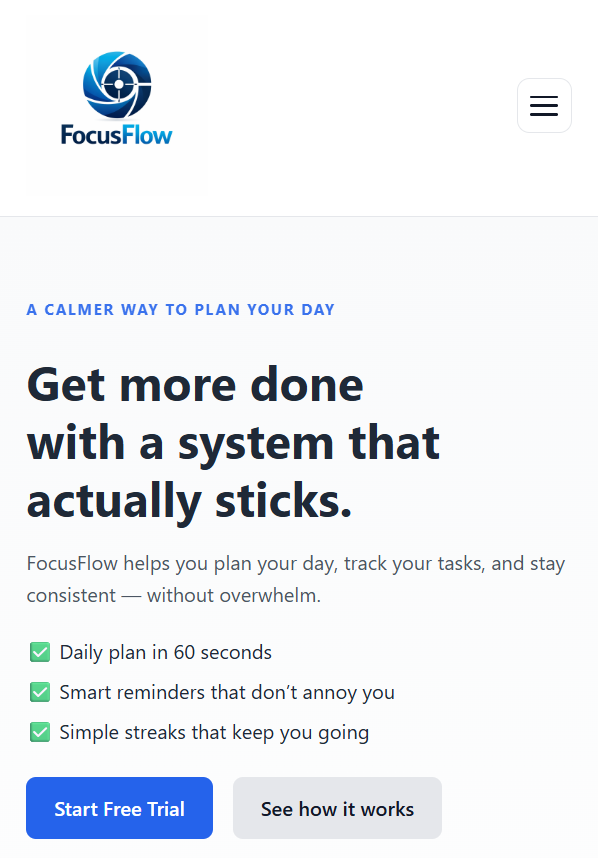
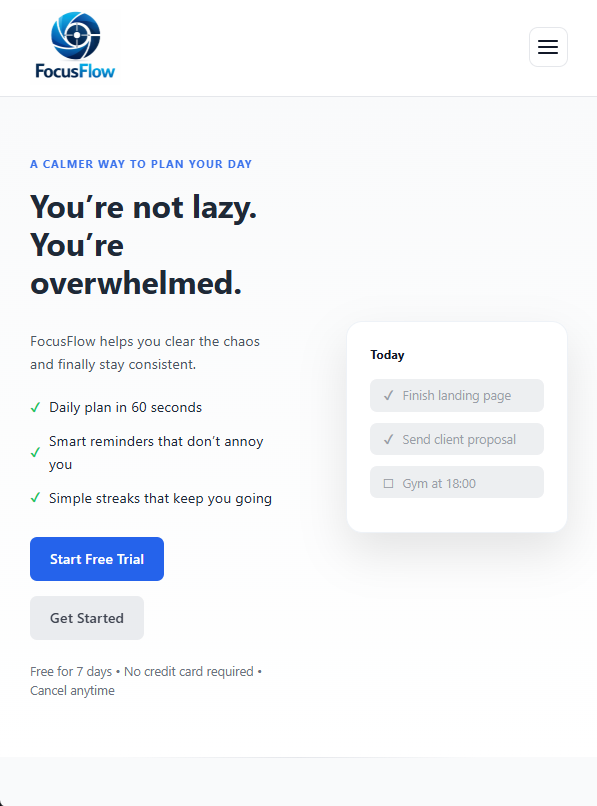
Updated LICENCE and README file

diff --git a/README.md b/README.md
@@ -62,7 +62,7 @@ Pricing toggle Yearly
 Email/Sign-up form
 ![Email/Sign-up form](screenshots/image-5.png)
 
-Validation & Toast Feedbback
+Validation & Toast Feedback
 ![Validation & Toast Feedback](screenshots/image-6.png)
 
 Mobile Navigation Menu
